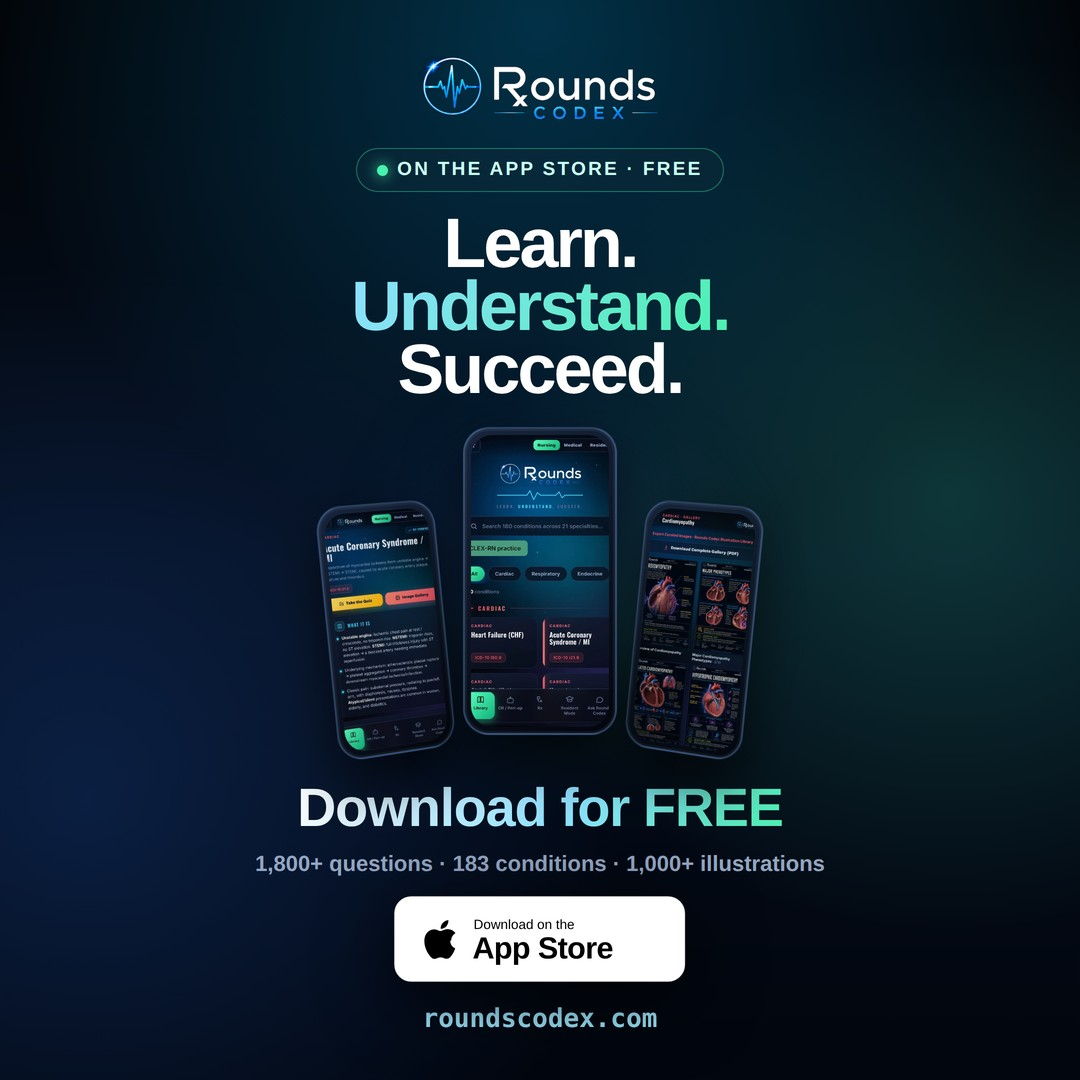
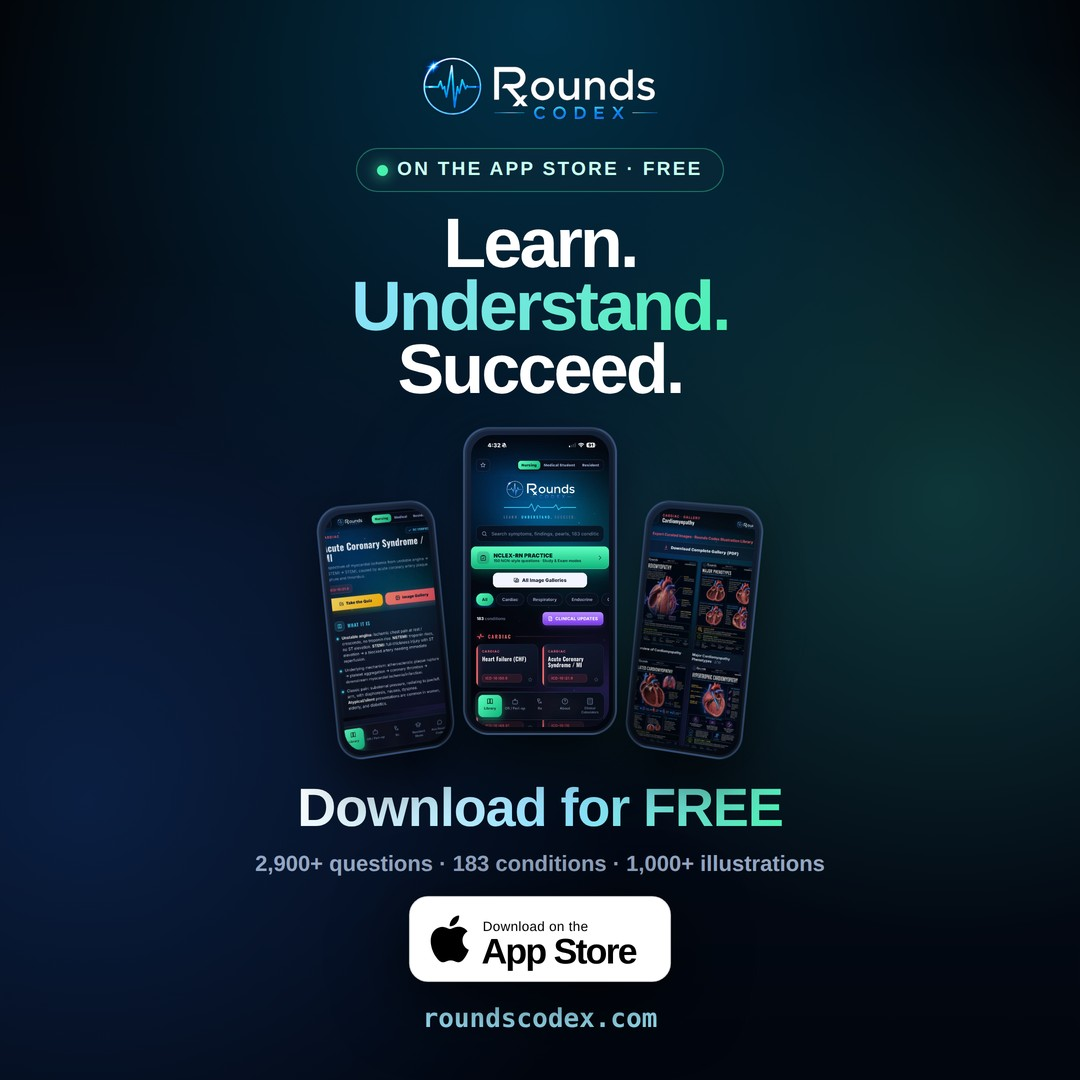
Refresh social graphics: polished App Store badge, 2,900+ question count
- Swap placeholder badge for the polished Apple-style lockup in all 4 templates
- Correct stats to 2,900+ questions (was 1,800+/1,820) to match App Store listing
- Re-render 9:16 hero, 9:16 features, 1:1 square, 1:1 boxed at final sizes

Changed region(s): [[0.4278, 0.3972, 0.5806, 0.6722], [0.3667, 0.825, 0.5806, 0.9167], [0.6111, 0.825, 0.6417, 0.9167]]

diff --git a/landing/social-features-9x16.html b/landing/social-features-9x16.html
@@ -38,7 +38,7 @@ h1 .g{color:#0000;background:linear-gradient(120deg,#8fe0ff,#4bf1b0);-webkit-bac
   <div class="grid">
     <div class="card"><span class="ic">🎯</span><b>1,000+ illustrations</b><p>Full-page medical artwork.</p></div>
     <div class="card"><span class="ic">🩺</span><b>183 conditions</b><p>Nursing · Medical · Resident, 25 specialties.</p></div>
-    <div class="card"><span class="ic">📝</span><b>1,820 quizzes</b><p>USMLE &amp; NCLEX with teaching rationales.</p></div>
+    <div class="card"><span class="ic">📝</span><b>2,900+ questions</b><p>USMLE &amp; NCLEX with teaching rationales.</p></div>
     <div class="card"><span class="ic">💊</span><b>300-drug guide</b><p>Dosing, indications &amp; clinical pearls.</p></div>
     <div class="card"><span class="ic">🎧</span><b>Audio mode</b><p>Lessons to listen and learn, hands-free.</p></div>
     <div class="card"><span class="ic">🧮</span><b>Calculators</b><p>The bedside formulas you use daily.</p></div>
@@ -47,12 +47,7 @@ h1 .g{color:#0000;background:linear-gradient(120deg,#8fe0ff,#4bf1b0);-webkit-bac
   </div>
   <div class="free">Download for FREE</div>
   <a class="badge" aria-label="Download on the App Store">
-    <svg viewBox="0 0 240 72" xmlns="http://www.w3.org/2000/svg">
-      <rect x="1" y="1" width="238" height="70" rx="14" fill="#fff" stroke="#00000022"/>
-      <path fill="#000" d="M47.6 37.3c0-4 3.3-6 3.5-6.1-1.9-2.8-4.9-3.2-6-3.2-2.5-.3-4.9 1.5-6.2 1.5-1.3 0-3.2-1.5-5.3-1.4-2.7 0-5.2 1.6-6.6 4-2.8 4.9-.7 12.1 2 16.1 1.3 2 2.9 4.2 4.9 4.1 2-.1 2.7-1.3 5.1-1.3s3 1.3 5.1 1.2c2.1 0 3.4-2 4.7-4 1.5-2.3 2.1-4.5 2.1-4.6-.1 0-4.1-1.6-4.1-6.3zM43.7 25.6c1.1-1.3 1.8-3.2 1.6-5-1.6.1-3.5 1-4.6 2.3-1 1.1-1.9 3-1.6 4.8 1.7.1 3.5-.9 4.6-2.1z"/>
-      <text x="66" y="28" fill="#000" font-family="Inter,Helvetica,Arial,sans-serif" font-size="11" font-weight="500">Download on the</text>
-      <text x="65" y="52" fill="#000" font-family="Inter,Helvetica,Arial,sans-serif" font-size="25" font-weight="600" letter-spacing="-0.5">App Store</text>
-    </svg>
+    <svg viewBox="0 0 120 40" role="img" aria-label="Download on the App Store" xmlns="http://www.w3.org/2000/svg"><rect x="0.5" y="0.5" width="119" height="39" rx="8.5" fill="#ffffff" stroke="#000000" stroke-opacity="0.12" stroke-width="1"/><path fill="#000000" d="M24.77 20.6c-.03-2.68 2.19-3.97 2.29-4.03-1.25-1.83-3.19-2.08-3.88-2.11-1.65-.17-3.23.97-4.06.97-.84 0-2.13-.95-3.5-.93-1.8.03-3.47 1.05-4.4 2.66-1.88 3.26-.48 8.08 1.35 10.73.9 1.3 1.96 2.75 3.36 2.7 1.35-.05 1.86-.87 3.49-.87 1.62 0 2.08.87 3.5.84 1.45-.02 2.36-1.32 3.24-2.62 1.02-1.5 1.44-2.96 1.46-3.04-.03-.01-2.81-1.08-2.84-4.27z"/><path fill="#000000" d="M22.12 12.72c.74-.9 1.24-2.14 1.1-3.39-1.07.04-2.36.71-3.12 1.61-.68.79-1.28 2.06-1.12 3.26 1.19.1 2.41-.6 3.14-1.48z"/><text x="34" y="16.3" fill="#000000" font-family="-apple-system,'SF Pro Text',BlinkMacSystemFont,'Helvetica Neue',Helvetica,Arial,sans-serif" font-size="6.1" font-weight="400" letter-spacing="0.15">Download on the</text><text x="33.4" y="31.2" fill="#000000" font-family="-apple-system,'SF Pro Display',BlinkMacSystemFont,'Helvetica Neue',Helvetica,Arial,sans-serif" font-size="16.2" font-weight="590" letter-spacing="-0.8">App Store</text></svg>
   </a>
   <div class="domain">roundscodex.com</div>
 </div></div>

diff --git a/landing/social-9x16.html b/landing/social-9x16.html
@@ -52,14 +52,9 @@ h1 .u{color:#0000;background:linear-gradient(120deg,#8fe0ff,#4bf1b0);-webkit-bac
     <figure class="ph s r"><img src="assets/gallery-detail.webp" alt=""></figure>
   </div>
   <div class="free">Download for FREE</div>
-  <div class="stats">1,800+ questions · 183 conditions · 1,000+ illustrations</div>
+  <div class="stats">2,900+ questions · 183 conditions · 1,000+ illustrations</div>
   <a class="badge" aria-label="Download on the App Store">
-    <svg viewBox="0 0 240 72" xmlns="http://www.w3.org/2000/svg">
-      <rect x="1" y="1" width="238" height="70" rx="14" fill="#fff" stroke="#00000022"/>
-      <path fill="#000" d="M47.6 37.3c0-4 3.3-6 3.5-6.1-1.9-2.8-4.9-3.2-6-3.2-2.5-.3-4.9 1.5-6.2 1.5-1.3 0-3.2-1.5-5.3-1.4-2.7 0-5.2 1.6-6.6 4-2.8 4.9-.7 12.1 2 16.1 1.3 2 2.9 4.2 4.9 4.1 2-.1 2.7-1.3 5.1-1.3s3 1.3 5.1 1.2c2.1 0 3.4-2 4.7-4 1.5-2.3 2.1-4.5 2.1-4.6-.1 0-4.1-1.6-4.1-6.3zM43.7 25.6c1.1-1.3 1.8-3.2 1.6-5-1.6.1-3.5 1-4.6 2.3-1 1.1-1.9 3-1.6 4.8 1.7.1 3.5-.9 4.6-2.1z"/>
-      <text x="66" y="28" fill="#000" font-family="Inter,Helvetica,Arial,sans-serif" font-size="11" font-weight="500">Download on the</text>
-      <text x="65" y="52" fill="#000" font-family="Inter,Helvetica,Arial,sans-serif" font-size="25" font-weight="600" letter-spacing="-0.5">App Store</text>
-    </svg>
+    <svg viewBox="0 0 120 40" role="img" aria-label="Download on the App Store" xmlns="http://www.w3.org/2000/svg"><rect x="0.5" y="0.5" width="119" height="39" rx="8.5" fill="#ffffff" stroke="#000000" stroke-opacity="0.12" stroke-width="1"/><path fill="#000000" d="M24.77 20.6c-.03-2.68 2.19-3.97 2.29-4.03-1.25-1.83-3.19-2.08-3.88-2.11-1.65-.17-3.23.97-4.06.97-.84 0-2.13-.95-3.5-.93-1.8.03-3.47 1.05-4.4 2.66-1.88 3.26-.48 8.08 1.35 10.73.9 1.3 1.96 2.75 3.36 2.7 1.35-.05 1.86-.87 3.49-.87 1.62 0 2.08.87 3.5.84 1.45-.02 2.36-1.32 3.24-2.62 1.02-1.5 1.44-2.96 1.46-3.04-.03-.01-2.81-1.08-2.84-4.27z"/><path fill="#000000" d="M22.12 12.72c.74-.9 1.24-2.14 1.1-3.39-1.07.04-2.36.71-3.12 1.61-.68.79-1.28 2.06-1.12 3.26 1.19.1 2.41-.6 3.14-1.48z"/><text x="34" y="16.3" fill="#000000" font-family="-apple-system,'SF Pro Text',BlinkMacSystemFont,'Helvetica Neue',Helvetica,Arial,sans-serif" font-size="6.1" font-weight="400" letter-spacing="0.15">Download on the</text><text x="33.4" y="31.2" fill="#000000" font-family="-apple-system,'SF Pro Display',BlinkMacSystemFont,'Helvetica Neue',Helvetica,Arial,sans-serif" font-size="16.2" font-weight="590" letter-spacing="-0.8">App Store</text></svg>
   </a>
   <div class="domain">roundscodex.com</div>
 </div></div>

diff --git a/landing/social-square-1x1.html b/landing/social-square-1x1.html
@@ -46,14 +46,9 @@ h1 .u{color:#0000;background:linear-gradient(120deg,#8fe0ff,#4bf1b0);-webkit-bac
     <figure class="ph s r"><img src="assets/gallery-detail.webp" alt=""></figure>
   </div>
   <div class="free">Download for FREE</div>
-  <div class="stats">1,800+ questions · 183 conditions · 1,000+ illustrations</div>
+  <div class="stats">2,900+ questions · 183 conditions · 1,000+ illustrations</div>
   <a class="badge" aria-label="Download on the App Store">
-    <svg viewBox="0 0 240 72" xmlns="http://www.w3.org/2000/svg">
-      <rect x="1" y="1" width="238" height="70" rx="14" fill="#fff" stroke="#00000022"/>
-      <path fill="#000" d="M47.6 37.3c0-4 3.3-6 3.5-6.1-1.9-2.8-4.9-3.2-6-3.2-2.5-.3-4.9 1.5-6.2 1.5-1.3 0-3.2-1.5-5.3-1.4-2.7 0-5.2 1.6-6.6 4-2.8 4.9-.7 12.1 2 16.1 1.3 2 2.9 4.2 4.9 4.1 2-.1 2.7-1.3 5.1-1.3s3 1.3 5.1 1.2c2.1 0 3.4-2 4.7-4 1.5-2.3 2.1-4.5 2.1-4.6-.1 0-4.1-1.6-4.1-6.3zM43.7 25.6c1.1-1.3 1.8-3.2 1.6-5-1.6.1-3.5 1-4.6 2.3-1 1.1-1.9 3-1.6 4.8 1.7.1 3.5-.9 4.6-2.1z"/>
-      <text x="66" y="28" fill="#000" font-family="Inter,Helvetica,Arial,sans-serif" font-size="11" font-weight="500">Download on the</text>
-      <text x="65" y="52" fill="#000" font-family="Inter,Helvetica,Arial,sans-serif" font-size="25" font-weight="600" letter-spacing="-0.5">App Store</text>
-    </svg>
+    <svg viewBox="0 0 120 40" role="img" aria-label="Download on the App Store" xmlns="http://www.w3.org/2000/svg"><rect x="0.5" y="0.5" width="119" height="39" rx="8.5" fill="#ffffff" stroke="#000000" stroke-opacity="0.12" stroke-width="1"/><path fill="#000000" d="M24.77 20.6c-.03-2.68 2.19-3.97 2.29-4.03-1.25-1.83-3.19-2.08-3.88-2.11-1.65-.17-3.23.97-4.06.97-.84 0-2.13-.95-3.5-.93-1.8.03-3.47 1.05-4.4 2.66-1.88 3.26-.48 8.08 1.35 10.73.9 1.3 1.96 2.75 3.36 2.7 1.35-.05 1.86-.87 3.49-.87 1.62 0 2.08.87 3.5.84 1.45-.02 2.36-1.32 3.24-2.62 1.02-1.5 1.44-2.96 1.46-3.04-.03-.01-2.81-1.08-2.84-4.27z"/><path fill="#000000" d="M22.12 12.72c.74-.9 1.24-2.14 1.1-3.39-1.07.04-2.36.71-3.12 1.61-.68.79-1.28 2.06-1.12 3.26 1.19.1 2.41-.6 3.14-1.48z"/><text x="34" y="16.3" fill="#000000" font-family="-apple-system,'SF Pro Text',BlinkMacSystemFont,'Helvetica Neue',Helvetica,Arial,sans-serif" font-size="6.1" font-weight="400" letter-spacing="0.15">Download on the</text><text x="33.4" y="31.2" fill="#000000" font-family="-apple-system,'SF Pro Display',BlinkMacSystemFont,'Helvetica Neue',Helvetica,Arial,sans-serif" font-size="16.2" font-weight="590" letter-spacing="-0.8">App Store</text></svg>
   </a>
   <div class="domain">roundscodex.com</div>
 </div></div>

diff --git a/landing/social-square-boxes-1x1.html b/landing/social-square-boxes-1x1.html
@@ -71,14 +71,9 @@ h1 .u{color:#0000;background:linear-gradient(120deg,#8fe0ff,#4bf1b0);-webkit-bac
       <figure class="ph s r"><img src="assets/gallery-detail.webp" alt=""></figure>
     </div>
     <div class="free">Download for FREE</div>
-    <div class="stats">1,800+ questions · 183 conditions</div>
+    <div class="stats">2,900+ questions · 183 conditions</div>
     <a class="badge" aria-label="Download on the App Store">
-      <svg viewBox="0 0 240 72" xmlns="http://www.w3.org/2000/svg">
-        <rect x="1" y="1" width="238" height="70" rx="14" fill="#fff" stroke="#00000022"/>
-        <path fill="#000" d="M47.6 37.3c0-4 3.3-6 3.5-6.1-1.9-2.8-4.9-3.2-6-3.2-2.5-.3-4.9 1.5-6.2 1.5-1.3 0-3.2-1.5-5.3-1.4-2.7 0-5.2 1.6-6.6 4-2.8 4.9-.7 12.1 2 16.1 1.3 2 2.9 4.2 4.9 4.1 2-.1 2.7-1.3 5.1-1.3s3 1.3 5.1 1.2c2.1 0 3.4-2 4.7-4 1.5-2.3 2.1-4.5 2.1-4.6-.1 0-4.1-1.6-4.1-6.3zM43.7 25.6c1.1-1.3 1.8-3.2 1.6-5-1.6.1-3.5 1-4.6 2.3-1 1.1-1.9 3-1.6 4.8 1.7.1 3.5-.9 4.6-2.1z"/>
-        <text x="66" y="28" fill="#000" font-family="Inter,Helvetica,Arial,sans-serif" font-size="11" font-weight="500">Download on the</text>
-        <text x="65" y="52" fill="#000" font-family="Inter,Helvetica,Arial,sans-serif" font-size="25" font-weight="600" letter-spacing="-0.5">App Store</text>
-      </svg>
+      <svg viewBox="0 0 120 40" role="img" aria-label="Download on the App Store" xmlns="http://www.w3.org/2000/svg"><rect x="0.5" y="0.5" width="119" height="39" rx="8.5" fill="#ffffff" stroke="#000000" stroke-opacity="0.12" stroke-width="1"/><path fill="#000000" d="M24.77 20.6c-.03-2.68 2.19-3.97 2.29-4.03-1.25-1.83-3.19-2.08-3.88-2.11-1.65-.17-3.23.97-4.06.97-.84 0-2.13-.95-3.5-.93-1.8.03-3.47 1.05-4.4 2.66-1.88 3.26-.48 8.08 1.35 10.73.9 1.3 1.96 2.75 3.36 2.7 1.35-.05 1.86-.87 3.49-.87 1.62 0 2.08.87 3.5.84 1.45-.02 2.36-1.32 3.24-2.62 1.02-1.5 1.44-2.96 1.46-3.04-.03-.01-2.81-1.08-2.84-4.27z"/><path fill="#000000" d="M22.12 12.72c.74-.9 1.24-2.14 1.1-3.39-1.07.04-2.36.71-3.12 1.61-.68.79-1.28 2.06-1.12 3.26 1.19.1 2.41-.6 3.14-1.48z"/><text x="34" y="16.3" fill="#000000" font-family="-apple-system,'SF Pro Text',BlinkMacSystemFont,'Helvetica Neue',Helvetica,Arial,sans-serif" font-size="6.1" font-weight="400" letter-spacing="0.15">Download on the</text><text x="33.4" y="31.2" fill="#000000" font-family="-apple-system,'SF Pro Display',BlinkMacSystemFont,'Helvetica Neue',Helvetica,Arial,sans-serif" font-size="16.2" font-weight="590" letter-spacing="-0.8">App Store</text></svg>
     </a>
     <div class="domain">roundscodex.com</div>
   </div>
